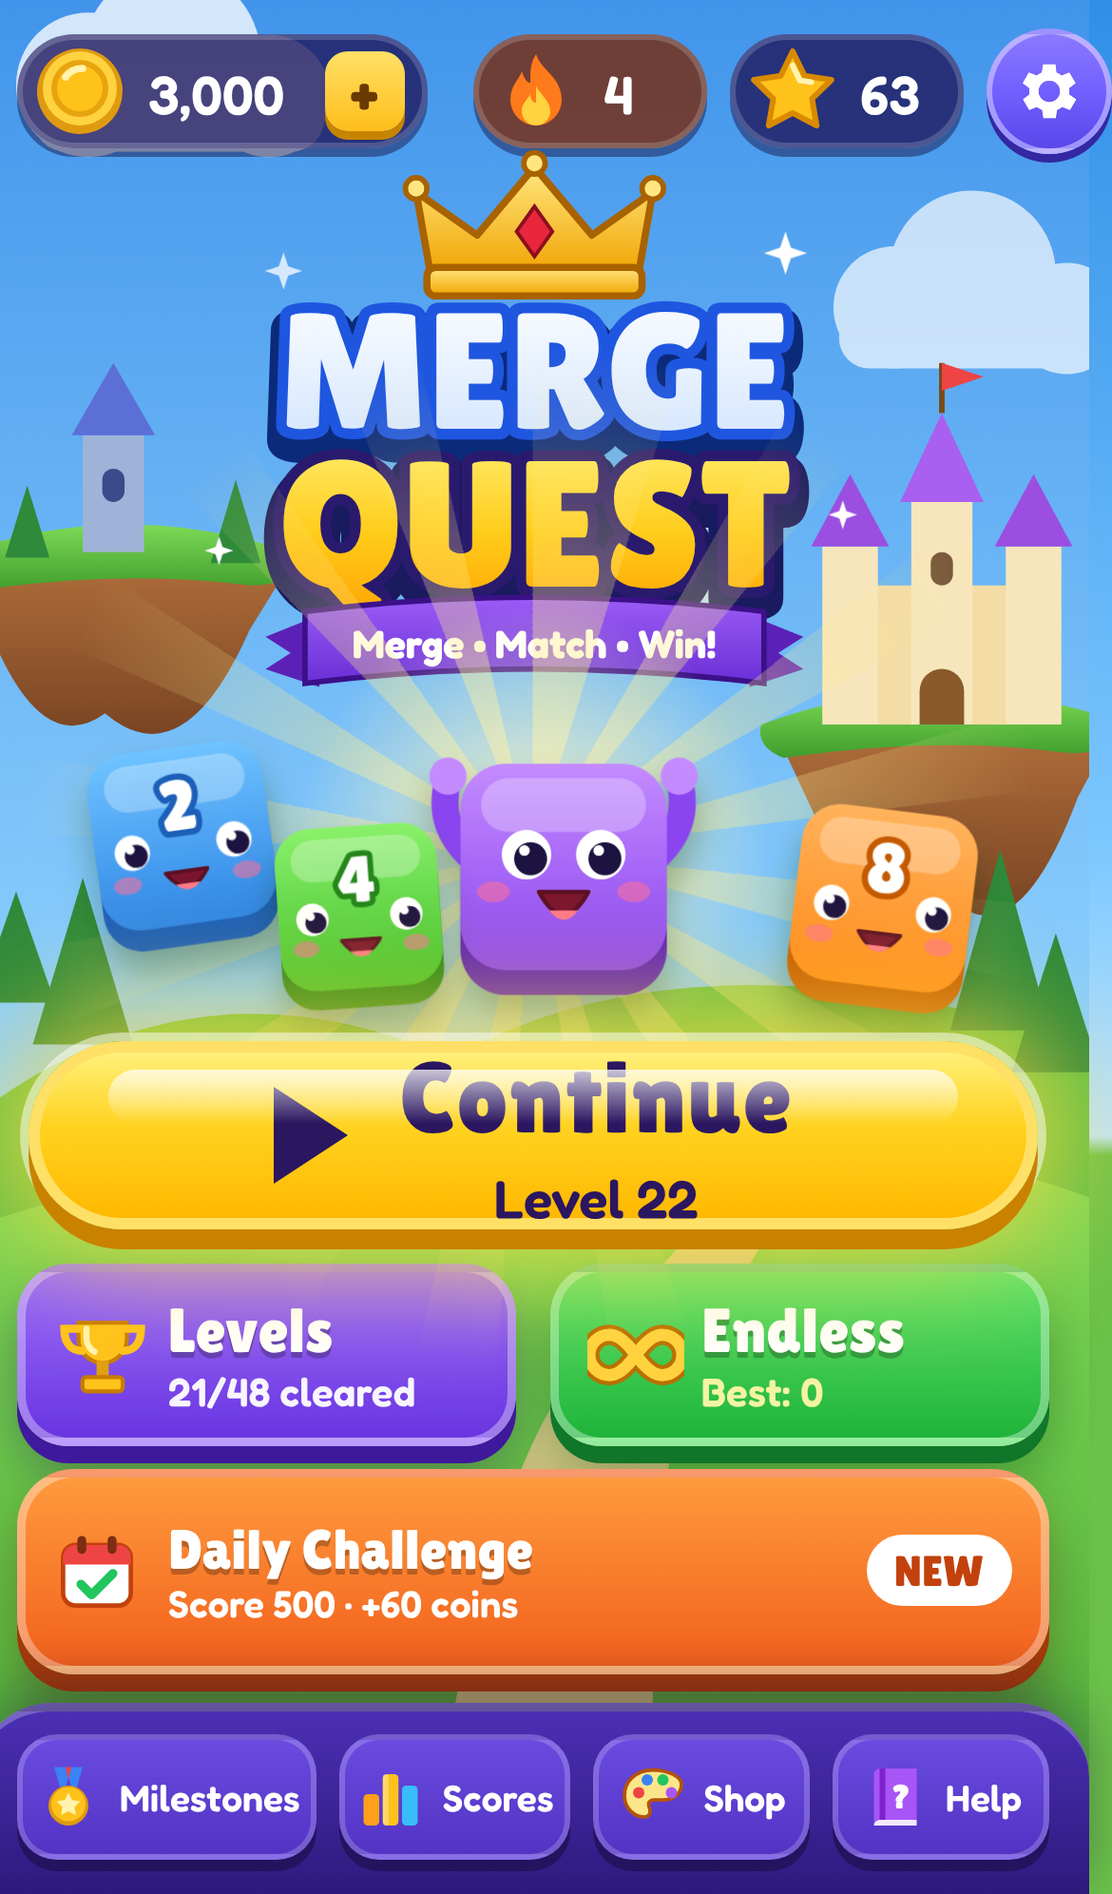
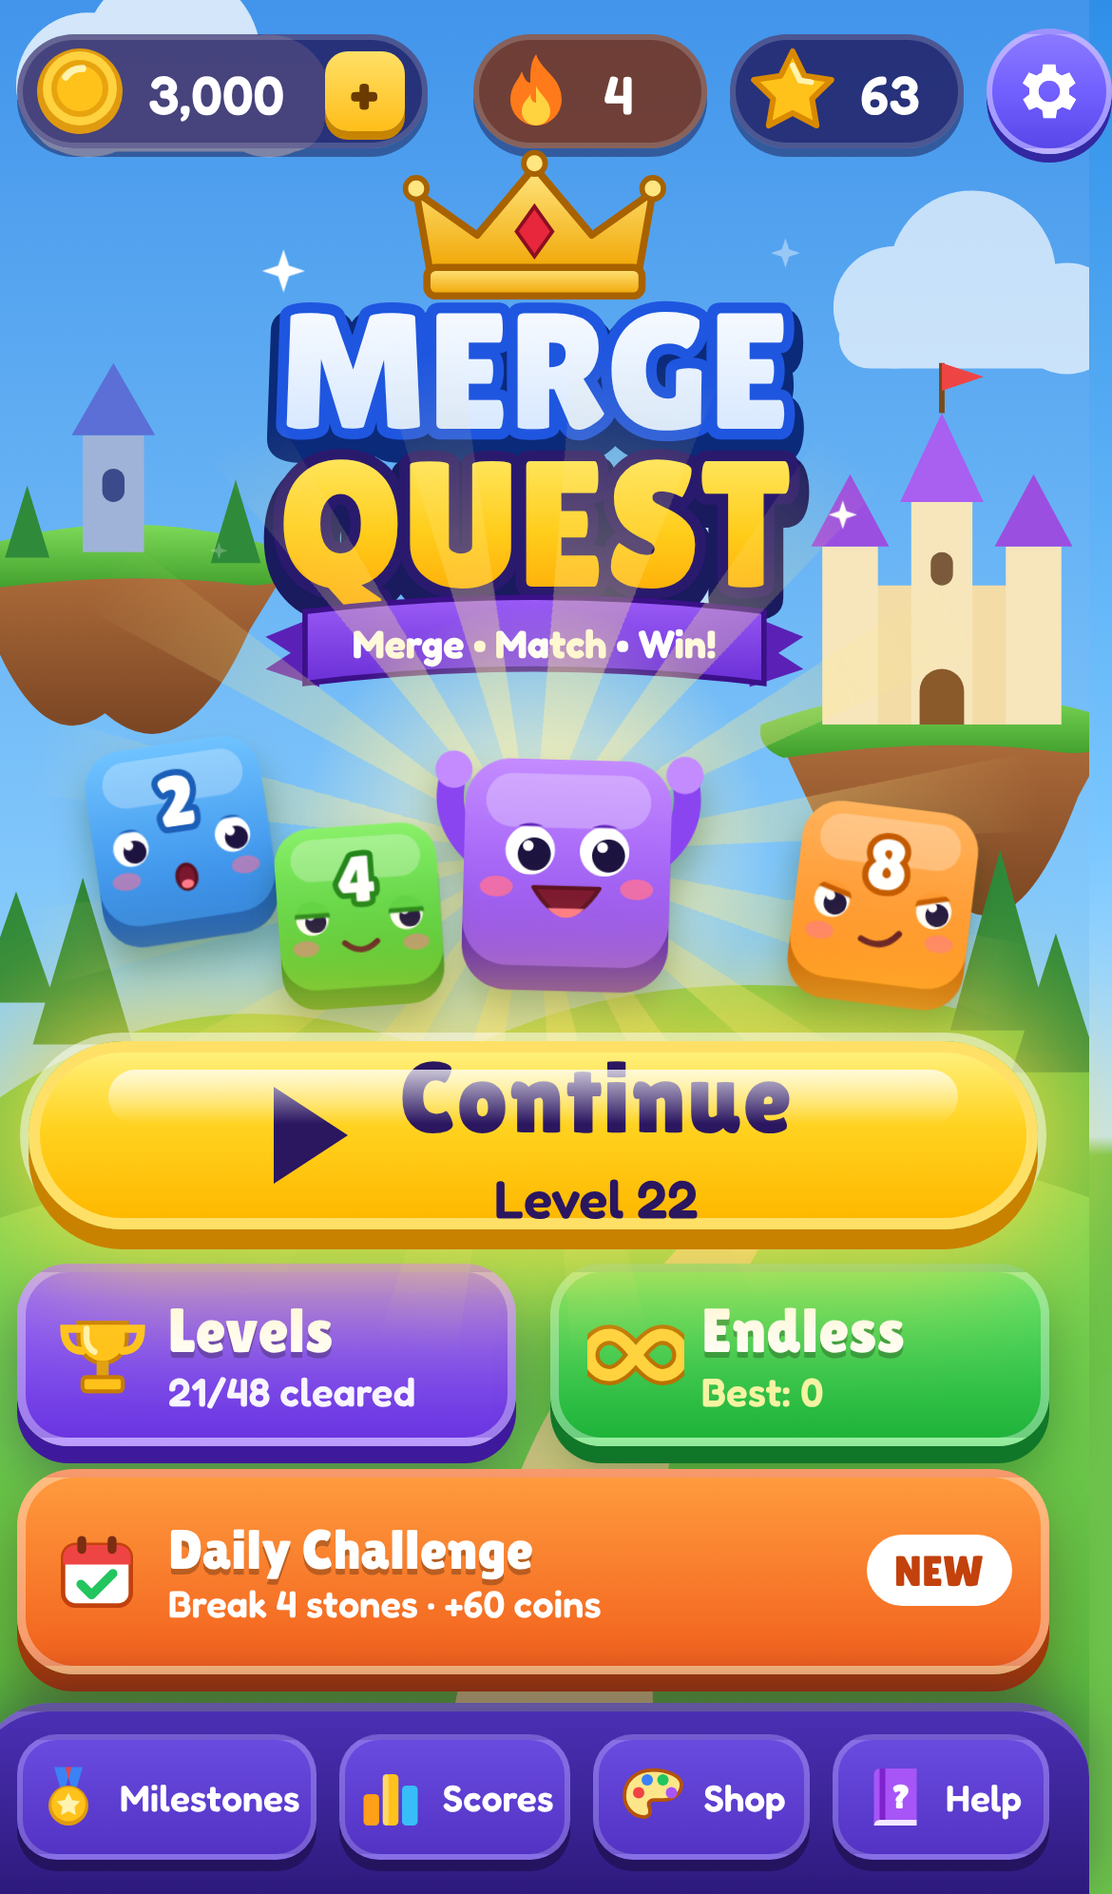
Home buddies get personalities, random blinks and tap reactions
Curious 2, sleepy 4, cheerful purple and determined 8 each have their own
idle bob, blink rhythm and signature move. Eyes use clipped lids, so blinks,
winks, sleepy eyes and the squint are all lid moves.

Claude-Session: https://claude.ai/code/session_0172S5ZqmVRQHNHtJoWFXShx

diff --git a/index.html b/index.html
@@ -353,17 +353,26 @@
     background: radial-gradient(circle, rgba(255, 245, 190, .95), rgba(255, 220, 90, 0) 65%); }
   @keyframes spin { to { transform: translate(-50%, -50%) rotate(360deg); } }
   .buddy { position: absolute; height: auto; filter: drop-shadow(0 8px 6px rgba(20, 60, 10, .35)); }
-  .buddy .bob { animation: bob 2.6s ease-in-out infinite; }
-  .buddy .eyes { animation: blink 5s infinite; transform-box: fill-box; transform-origin: center; }
-  @keyframes bob { 50% { transform: translateY(-6px); } }
-  @keyframes blink { 0%, 46%, 50%, 100% { transform: scaleY(1); } 48% { transform: scaleY(.1); } }
+  .buddy { cursor: pointer; -webkit-tap-highlight-color: transparent; }
+  .buddy svg { overflow: visible; }
+  .buddy .bob, .buddy .act, .buddy .m-yawn, .buddy .aura, .buddy .spark, .buddy .zz { transform-box: fill-box; transform-origin: 50% 100%; }
+  .buddy .m-yawn, .buddy .aura, .buddy .spark, .buddy .zz { transform-origin: center; }
+  .buddy .arm-l { transform-box: fill-box; transform-origin: 100% 100%; animation: armSway 1.8s ease-in-out infinite; }
+  .buddy .arm-r { transform-box: fill-box; transform-origin: 0 100%; animation: armSwayR 1.8s ease-in-out infinite; }
+  .k-curious .bob { animation: bobQuick 1.5s ease-in-out infinite; }
+  .k-sleepy .bob { animation: bobLazy 3.8s ease-in-out infinite; }
+  .k-cheer .bob { animation: bobDance 1.8s ease-in-out infinite; }
+  .k-determined .bob { animation: bobSteady 3s ease-in-out infinite; }
+  @keyframes bobQuick { 50% { transform: translateY(-5px); } }
+  @keyframes bobLazy { 50% { transform: translateY(-3px) scale(1.01, .99); } }
+  @keyframes bobDance { 25% { transform: translateY(-8px) rotate(-3deg); } 50% { transform: none; } 75% { transform: translateY(-8px) rotate(3deg); } }
+  @keyframes bobSteady { 50% { transform: translateY(-3px); } }
+  @keyframes armSway { 50% { transform: rotate(-9deg); } }
+  @keyframes armSwayR { 50% { transform: rotate(9deg); } }
   .b2 { left: 4%; bottom: 26%; width: 24%; transform: rotate(-8deg); }
   .b4 { left: 22%; bottom: 4%; width: 22%; transform: rotate(-4deg); }
-  .b4 .bob { animation-delay: .5s; }
   .bP { left: 39%; bottom: 24%; width: 28%; }
-  .bP .bob { animation-delay: .2s; animation-duration: 2.2s; }
   .b8 { right: 4%; bottom: 10%; width: 24%; transform: rotate(7deg); }
-  .b8 .bob { animation-delay: .9s; }
   .cast .buddy { max-height: 70%; }
   .cta {
     position: relative; display: flex; align-items: center; justify-content: center; gap: 18px;
@@ -435,7 +444,7 @@
     .dock svg { width: 24px; height: 24px; }
   }
   @media (prefers-reduced-motion: reduce) {
-    .burst, .buddy .bob, .cta, .twinkle { animation: none; }
+    .burst, .buddy .bob, .buddy .arm, .cta, .twinkle { animation: none; }
   }
   /* ---------- skins ---------- */
   .skins { display: grid; grid-template-columns: 1fr 1fr; gap: 10px; }
@@ -1990,27 +1999,195 @@
   const homeOpen = () => $('home').classList.contains('show');
 
   // Cute tile characters for the home screen (inline SVG).
-  function buddySvg(v, top, base, side, arms) {
+  // ---------- home-screen buddies ----------
+  // Each buddy has a personality that sets its idle bob, how it blinks and a
+  // signature move (played now and then, or when tapped). Eyes have lids clipped
+  // to the eye, so blinks, sleepy eyes and the determined squint are all lid moves.
+  const mixHex = (a, b, t) => '#' + [1, 3, 5].map(i => Math.round(parseInt(a.substr(i, 2), 16) * (1 - t) + parseInt(b.substr(i, 2), 16) * t).toString(16).padStart(2, '0')).join('');
+  function buddySvg(v, top, base, side, kind) {
     const id = 'g' + v + Math.random().toString(36).slice(2, 6);
-    return `<svg viewBox="-20 -24 140 150"><g class="bob">
+    const arms = kind === 'cheer', ink = '#5a0f22';
+    const eyes = v ? [[21, 56], [79, 56]] : [[32, 44], [68, 44]], r = v ? 10 : 12;
+    const lidFill = mixHex(top, base, (eyes[0][1] + 4) / 100);
+    // lid: body-coloured shape whose bottom edge is the eyelid line (rest position)
+    const lid = (x, y, inner) => {
+      const T = y - 3 * r;
+      if (kind === 'sleepy') return `M${x - r - 2} ${T}H${x + r + 2}V${y - r * .2}H${x - r - 2}Z|M${x - r - 2} ${y - r * .2}H${x + r + 2}`;
+      if (kind === 'determined') {
+        const yi = y - r * .3, yo = y - r * .95, xi = x + inner * (r + 2), xo = x - inner * (r + 2);
+        return `M${xo} ${T}H${xi}V${yi}L${xo} ${yo}Z|M${xo} ${yo}L${xi} ${yi}`;
+      }
+      return `M${x - r - 2} ${T}H${x + r + 2}V${y - r - 1}H${x - r - 2}Z|M${x - r - 2} ${y - r - 1}H${x + r + 2}`;
+    };
+    const eyeSvg = eyes.map(([x, y], i) => {
+      const [shape, line] = lid(x, y, i ? -1 : 1).split('|');
+      return `<g class="eye"><clipPath id="${id}c${i}"><circle cx="${x}" cy="${y}" r="${r + 1}"/></clipPath>
+        <circle cx="${x}" cy="${y}" r="${r}" fill="#fff"/>
+        <g class="pup"><circle cx="${x + 2}" cy="${y + 2}" r="${v ? 6.5 : 8}" fill="#1d1340"/><circle cx="${x - 1}" cy="${y - 2}" r="2.6" fill="#fff"/></g>
+        <g clip-path="url(#${id}c${i})"><g class="lid"><path d="${shape}" fill="${lidFill}"/><path d="${line}" stroke="${side}" stroke-width="3" stroke-linecap="round" fill="none"/></g></g>
+      </g>`;
+    }).join('');
+    const my = v ? 72 : 64;   // mouth line
+    const mouth = {
+      curious: `<ellipse cx="50" cy="${my + 4}" rx="5.5" ry="7" fill="#7a1530" stroke="${ink}" stroke-width="2"/><ellipse cx="50" cy="${my + 8}" rx="3.5" ry="2.5" fill="#ff7a8a"/>`,
+      sleepy: `<path class="m-idle" d="M40 ${my} Q50 ${my + 9} 60 ${my}" stroke="${ink}" stroke-width="3.5" stroke-linecap="round" fill="none"/>
+        <g class="m-yawn" opacity="0"><ellipse cx="50" cy="${my + 5}" rx="9" ry="11" fill="#7a1530" stroke="${ink}" stroke-width="2"/><ellipse cx="50" cy="${my + 11}" rx="6" ry="4" fill="#ff7a8a"/></g>
+        <text class="zz" x="88" y="8" font-family="Lilita One, Fredoka, sans-serif" font-size="22" fill="#fff" stroke="${side}" stroke-width="5" paint-order="stroke" opacity="0">z</text>`,
+      cheer: `<path d="M34 ${my - 2} Q50 ${my + 24} 66 ${my - 2} Z" fill="#7a1530" stroke="${ink}" stroke-width="2" stroke-linejoin="round"/><path d="M41 ${my + 8} Q50 ${my + 17} 59 ${my + 8}" fill="#ff7a8a"/>`,
+      determined: `<path d="M40 ${my + 4} Q53 ${my + 10} 61 ${my - 1}" stroke="${ink}" stroke-width="3.5" stroke-linecap="round" fill="none"/>`,
+    }[kind];
+    const star = (x, y, s) => `<path class="spark" d="M${x} ${y - s}L${x + s * .3} ${y - s * .3}L${x + s} ${y}L${x + s * .3} ${y + s * .3}L${x} ${y + s}L${x - s * .3} ${y + s * .3}L${x - s} ${y}L${x - s * .3} ${y - s * .3}Z" fill="#fff6b0" opacity="0"/>`;
+    return `<svg viewBox="-20 -24 140 150" class="k-${kind}"><g class="bob"><g class="act">
       <defs><linearGradient id="${id}" x1="0" y1="0" x2="0" y2="1"><stop offset="0" stop-color="${top}"/><stop offset="1" stop-color="${base}"/></linearGradient></defs>
-      ${arms ? `<path d="M6 46 Q-12 30 -6 8" stroke="${base}" stroke-width="13" stroke-linecap="round" fill="none"/>
-        <path d="M94 46 Q112 30 106 8" stroke="${base}" stroke-width="13" stroke-linecap="round" fill="none"/>
-        <circle cx="-6" cy="6" r="9" fill="${top}"/><circle cx="106" cy="6" r="9" fill="${top}"/>` : ''}
+      ${kind === 'determined' ? `<circle class="aura" cx="50" cy="56" r="66" fill="${top}" opacity="0"/>` : ''}
+      ${arms ? `<g class="arm arm-l"><path d="M6 46 Q-12 30 -6 8" stroke="${base}" stroke-width="13" stroke-linecap="round" fill="none"/><circle cx="-6" cy="6" r="9" fill="${top}"/></g>
+        <g class="arm arm-r"><path d="M94 46 Q112 30 106 8" stroke="${base}" stroke-width="13" stroke-linecap="round" fill="none"/><circle cx="106" cy="6" r="9" fill="${top}"/></g>` : ''}
       <rect x="0" y="12" width="100" height="100" rx="22" fill="${side}"/>
       <rect x="0" y="0" width="100" height="100" rx="22" fill="url(#${id})"/>
       <rect x="10" y="7" width="80" height="26" rx="13" fill="#fff" opacity=".28"/>
       ${v ? `<text x="50" y="47" text-anchor="middle" font-family="Lilita One, Fredoka, sans-serif" font-size="40"
         fill="#fff" stroke="${side}" stroke-width="7" paint-order="stroke" stroke-linejoin="round">${v}</text>` : ''}
-      <g class="eyes">${(v ? [[21, 56], [79, 56]] : [[32, 44], [68, 44]]).map(([x, y]) => `
-        <circle cx="${x}" cy="${y}" r="${v ? 10 : 12}" fill="#fff"/><circle cx="${x + 2}" cy="${y + 2}" r="${v ? 6.5 : 8}" fill="#1d1340"/>
-        <circle cx="${x - 1}" cy="${y - 2}" r="2.6" fill="#fff"/>`).join('')}
-      </g>
-      ${[[16, v ? 74 : 62], [84, v ? 74 : 62]].map(([x, y]) => `<ellipse cx="${x}" cy="${y}" rx="8" ry="5" fill="#ff6f9a" opacity=".55"/>`).join('')}
-      <path d="M38 ${v ? 70 : 62} Q50 ${v ? 88 : 84} 62 ${v ? 70 : 62} Z" fill="#7a1530" stroke="#5a0f22" stroke-width="2" stroke-linejoin="round"/>
-      <path d="M43 ${v ? 77 : 71} Q50 ${v ? 84 : 80} 57 ${v ? 77 : 71}" fill="#ff7a8a"/>
-    </g></svg>`;
+      ${eyeSvg}
+      ${[[16, v ? 74 : 62], [84, v ? 74 : 62]].map(([x, y]) => `<ellipse cx="${x}" cy="${y}" rx="8" ry="5" fill="#ff6f9a" opacity="${kind === 'cheer' ? .8 : .55}"/>`).join('')}
+      ${mouth}
+      ${arms ? star(-14, -14, 7) + star(112, -12, 6) + star(50, -18, 8) : ''}
+    </g></g></svg>`;
   }
+
+  // Personalities: blink gap (ms), lid travel for a full blink (in eye radii), moves.
+  const BUDDY_KINDS = {
+    curious:    { gap: [2000, 4000], shut: 2.1 },
+    sleepy:     { gap: [4000, 7000], shut: 1.3 },
+    cheer:      { gap: [3000, 5000], shut: 2.1 },
+    determined: { gap: [5000, 8000], shut: 1.6 },
+  };
+  const rnd = (a, b) => a + Math.random() * (b - a);
+  const buddyCtl = {
+    gen: 0, timers: [], list: [], last: null,
+    later(ms, fn) { const g = this.gen; this.timers.push(setTimeout(() => { if (g === this.gen) fn(); }, ms)); },
+    stop() { this.gen++; this.timers.forEach(clearTimeout); this.timers = []; this.list = []; },
+    start() {
+      this.stop();
+      const calm = matchMedia('(prefers-reduced-motion: reduce)').matches;
+      this.list = [...document.querySelectorAll('#home .buddy')].map(el => {
+        const svg = el.querySelector('svg'), kind = svg.getAttribute('class').slice(2);
+        const q = c => [...svg.querySelectorAll(c)];
+        const b = { el, kind, cfg: BUDDY_KINDS[kind], act: svg.querySelector('.act'), lids: q('.lid'), pups: q('.pup'),
+          r: kind === 'cheer' ? 12 : 10, busy: false, calm };
+        svg.querySelector('.bob').style.animationDelay = -rnd(0, 4) + 's';   // idle bobs out of step
+        el.onclick = () => this.tap(b);
+        return b;
+      });
+      for (const b of this.list) this.later(rnd(300, b.cfg.gap[1]), () => this.blinkLoop(b));
+      if (!this.list[0] || this.list[0].calm) return;
+      this.later(rnd(3000, 6000), () => this.moveLoop());
+      const cur = this.list.find(b => b.kind === 'curious');
+      if (cur) this.later(1000, () => this.lookLoop(cur));
+    },
+    // ----- eyes -----
+    blink(b, { eyes = b.lids, ms = 180, hold = 0, depth = 1 } = {}) {
+      const d = b.r * b.cfg.shut * depth, t = ms + hold;
+      eyes.forEach(l => l.animate([{ transform: 'none' }, { transform: `translateY(${d}px)`, offset: ms / 2 / t },
+        { transform: `translateY(${d}px)`, offset: (ms / 2 + hold) / t }, { transform: 'none' }], { duration: t, easing: 'ease-in-out' }));
+      return t;
+    },
+    blinkLoop(b) {
+      if (!b.busy) {
+        if (b.kind === 'curious') { const t = this.blink(b, { ms: 140 }); if (Math.random() < .3) this.later(t + 90, () => this.blink(b, { ms: 140 })); }
+        else if (b.kind === 'sleepy') this.blink(b, { ms: 560, hold: 220 });
+        else if (b.kind === 'cheer') Math.random() < .2 ? this.blink(b, { eyes: [b.lids[Math.random() < .5 ? 0 : 1]], ms: 380, hold: 160 }) : this.blink(b);
+        else this.blink(b, { ms: 110 });
+      }
+      this.later(rnd(...b.cfg.gap), () => this.blinkLoop(b));
+    },
+    look(b, x, y, ms = 1400) {
+      b.pups.forEach(p => p.animate([{ transform: 'none' }, { transform: `translate(${x}px,${y}px)`, offset: .15 },
+        { transform: `translate(${x}px,${y}px)`, offset: .85 }, { transform: 'none' }], { duration: ms, easing: 'ease-in-out' }));
+    },
+    lookLoop(b) {   // the curious one keeps glancing around
+      if (!b.busy) this.look(b, rnd(-3.5, 3.5), rnd(-3.5, 1.5), rnd(700, 1600));
+      this.later(rnd(1400, 3200), () => this.lookLoop(b));
+    },
+    // ----- signature moves -----
+    moveLoop() {
+      const free = this.list.filter(b => !b.busy && b !== this.last);
+      const b = free[Math.floor(Math.random() * free.length)];
+      if (b) this.play(b);
+      this.later(rnd(6000, 15000), () => this.moveLoop());
+    },
+    tap(b) {
+      if (b.calm) { this.blink(b); return; }
+      if (b.busy) { b.act.animate([{ transform: 'none' }, { transform: 'scale(1.08,.9)' }, { transform: 'none' }], { duration: 260 }); return; }
+      this.play(b);
+    },
+    play(b) {
+      b.busy = true; this.last = b;
+      const ms = this[b.kind](b);
+      this.later(ms, () => { b.busy = false; });
+      // a neighbour sometimes glances over
+      const others = this.list.filter(o => o !== b && !o.busy);
+      if (others.length && Math.random() < .6) {
+        const o = others[Math.floor(Math.random() * others.length)];
+        const dir = b.el.getBoundingClientRect().left > o.el.getBoundingClientRect().left ? 3.5 : -3.5;
+        this.later(250, () => this.look(o, dir, -1, 1600));
+      }
+    },
+    curious(b) {   // hop with a head tilt: "what's that?"
+      this.look(b, 0, -3.5, 1300);
+      b.act.animate([{ transform: 'none' }, { transform: 'translateY(-16px) rotate(-6deg)', offset: .3 },
+        { transform: 'translateY(0) rotate(-10deg)', offset: .55 }, { transform: 'rotate(-10deg)', offset: .85 }, { transform: 'none' }],
+        { duration: 1300, easing: 'ease-out' });
+      return 1400;
+    },
+    sleepy(b) {
+      const svg = b.el.querySelector('svg'), idle = svg.querySelector('.m-idle'), yawn = svg.querySelector('.m-yawn'), zz = svg.querySelector('.zz');
+      if (Math.random() < .5) {   // big yawn
+        this.blink(b, { ms: 700, hold: 1100, depth: .85 });
+        b.act.animate([{ transform: 'none' }, { transform: 'scale(.96,1.08)', offset: .35 }, { transform: 'scale(.96,1.08)', offset: .65 },
+          { transform: 'scale(1.06,.92)', offset: .82 }, { transform: 'none' }], { duration: 1900, easing: 'ease-in-out' });
+        idle.animate([{ opacity: 1 }, { opacity: 0, offset: .15 }, { opacity: 0, offset: .8 }, { opacity: 1 }], 1900);
+        yawn.animate([{ opacity: 0, transform: 'scale(.3)' }, { opacity: 1, transform: 'scale(1)', offset: .3 },
+          { opacity: 1, transform: 'scale(1)', offset: .7 }, { opacity: 0, transform: 'scale(.3)' }], { duration: 1900 });
+        return 2000;
+      }
+      // doze off, float a few z's, then startle awake
+      this.blink(b, { ms: 1000, hold: 3000 });
+      b.act.animate([{ transform: 'none' }, { transform: 'rotate(4deg) translateY(2px)', offset: .15 }, { transform: 'rotate(4deg) translateY(2px)', offset: .85 },
+        { transform: 'none' }], { duration: 4000, easing: 'ease-in-out' });
+      [600, 1500, 2400].forEach(t => this.later(t, () => zz.animate([{ opacity: 0, transform: 'translate(0,0) scale(.6)' },
+        { opacity: 1, offset: .3 }, { opacity: 0, transform: 'translate(10px,-22px) scale(1.2)' }], { duration: 1300, easing: 'ease-out' })));
+      this.later(3900, () => {
+        b.act.animate([{ transform: 'none' }, { transform: 'translateY(-12px) scale(.95,1.06)', offset: .35 }, { transform: 'none' }], { duration: 420, easing: 'ease-out' });
+        b.lids.forEach(l => l.animate([{ transform: 'none' }, { transform: `translateY(${-b.r * .5}px)`, offset: .2 }, { transform: `translateY(${-b.r * .5}px)`, offset: .7 }, { transform: 'none' }], 900));
+      });
+      return 5000;
+    },
+    cheer(b) {   // jump with arms pumping and a few sparkles
+      const svg = b.el.querySelector('svg');
+      b.act.animate([{ transform: 'none' }, { transform: 'translateY(-20px)', offset: .3 }, { transform: 'none', offset: .55 },
+        { transform: 'translateY(-9px)', offset: .75 }, { transform: 'none' }], { duration: 1100, easing: 'ease-in-out' });
+      svg.querySelectorAll('.arm').forEach((a, i) => {
+        const s = i ? 1 : -1;
+        a.animate([{ transform: 'none' }, { transform: `rotate(${18 * s}deg)` }, { transform: `rotate(${-10 * s}deg)` },
+          { transform: `rotate(${18 * s}deg)` }, { transform: 'none' }], { duration: 1100, easing: 'ease-in-out' });
+      });
+      svg.querySelectorAll('.spark').forEach((sp, i) => sp.animate([{ opacity: 0, transform: 'scale(.2)' },
+        { opacity: 1, transform: 'scale(1.1) rotate(30deg)', offset: .5 }, { opacity: 0, transform: 'scale(.4) rotate(60deg)' }],
+        { duration: 800, delay: 250 + i * 160 }));
+      if (Math.random() < .4) this.later(1200, () => this.blink(b, { eyes: [b.lids[1]], ms: 380, hold: 200 }));   // and a wink
+      return 1700;
+    },
+    determined(b) {   // narrow the eyes, then a power-up squash and stretch
+      const aura = b.el.querySelector('.aura');
+      this.blink(b, { ms: 500, hold: 900, depth: .32 });
+      b.act.animate([{ transform: 'none' }, { transform: 'translateX(-1.5px)', offset: .1 }, { transform: 'translateX(1.5px)', offset: .2 },
+        { transform: 'translateX(-1.5px)', offset: .3 }, { transform: 'scale(1.08,.9)', offset: .5 }, { transform: 'scale(.94,1.1) translateY(-6px)', offset: .68 },
+        { transform: 'scale(1.02,.98)', offset: .85 }, { transform: 'none' }], { duration: 1500, easing: 'ease-in-out' });
+      aura.animate([{ opacity: 0, transform: 'scale(.8)' }, { opacity: 0, offset: .5 }, { opacity: .45, transform: 'scale(1)', offset: .7 },
+        { opacity: 0, transform: 'scale(1.15)' }], { duration: 1500 });
+      return 1600;
+    },
+  };
 
   const ICONS = {
     cal: `<svg class="mi" viewBox="0 0 48 48"><rect x="5" y="9" width="38" height="34" rx="7" fill="#fff" stroke="#c2410c" stroke-width="2.5"/><path d="M5 16a7 7 0 0 1 7-7h24a7 7 0 0 1 7 7v4H5z" fill="#ef4444"/><rect x="13" y="4" width="5" height="10" rx="2.5" fill="#7c2d12"/><rect x="30" y="4" width="5" height="10" rx="2.5" fill="#7c2d12"/><path d="M15 31l6 6 12-12" stroke="#22c55e" stroke-width="5" fill="none" stroke-linecap="round" stroke-linejoin="round"/></svg>`,
@@ -2128,10 +2305,10 @@
       <div class="logo">${LOGO}</div>
       <div class="cast" aria-hidden="true">
         <div class="burst"></div><div class="glow"></div>
-        <div class="buddy b2">${buddySvg(2, '#6fc3ff', '#2f86e6', '#1c5fb8')}</div>
-        <div class="buddy bP">${buddySvg(0, '#c48bff', '#8b45f0', '#5e22b8', true)}</div>
-        <div class="buddy b4">${buddySvg(4, '#8af06a', '#3fbf2c', '#25861b')}</div>
-        <div class="buddy b8">${buddySvg(8, '#ffb35c', '#ff8a1a', '#c45a00')}</div>
+        <div class="buddy b2">${buddySvg(2, '#6fc3ff', '#2f86e6', '#1c5fb8', 'curious')}</div>
+        <div class="buddy bP">${buddySvg(0, '#c48bff', '#8b45f0', '#5e22b8', 'cheer')}</div>
+        <div class="buddy b4">${buddySvg(4, '#8af06a', '#3fbf2c', '#25861b', 'sleepy')}</div>
+        <div class="buddy b8">${buddySvg(8, '#ffb35c', '#ff8a1a', '#c45a00', 'determined')}</div>
       </div>
       <button class="cta" id="hPlay"><span class="tri"></span><span class="txt"><b>${ctaTop}</b><small>${ctaSub}</small></span></button>
       <div class="modes">
@@ -2147,6 +2324,7 @@
       </div>`;
     $('home').classList.add('show');
     music.play();
+    buddyCtl.start();
     $('hPlay').onclick = () => (cont ? resumeLevel() : next ? startLevel(next) : playEndless());
     $('hMap').onclick = showMap;
     $('hEndless').onclick = playEndless;
@@ -2300,7 +2478,7 @@
     };
     $('closeBtn').onclick = hideOverlay;
   }
-  function hideHome() { $('home').classList.remove('show'); music.stop(); }
+  function hideHome() { $('home').classList.remove('show'); music.stop(); buddyCtl.stop(); }
 
   function resumeLevel() {
     if (mode !== 'level') save();       // keep the Endless run or daily attempt
@@ -3517,7 +3695,7 @@
   window.__mb = {
     fire, swap, newGame, undo, toggleTool, useToolAt, comboCoins, rollValue, startLevel, showMap, playEndless, LEVELS,
     showHome, resumeLevel, showMilestones, startDaily, dailyDef, todayKey, playDaily, showShop, applySkin,
-    setCoins, music, audioPrefs,
+    setCoins, music, audioPrefs, buddyCtl,
     state: () => ({ grid: gridValues(), cur, nxt, nxt2, score, over, busy, coins, tool, sel, snap: !!snap, maxV, infCount, minE, mode, lv, cols, rows, freeUses, inv: { ...inv } }),
   };
 })();

diff --git a/sw.js b/sw.js
@@ -1,5 +1,5 @@
 // Offline support: cache the game shell, serve cache-first, refresh in the background.
-const CACHE = 'merge-quest-v8';
+const CACHE = 'merge-quest-v9';
 const FILES = ['./', './index.html', './fonts/fredoka.woff2', './fonts/lilita-one.woff2', './music/home.mp3', './manifest.webmanifest', './icon-192.png', './icon-512.png', './icon-maskable-512.png', './apple-touch-icon.png'];
 
 self.addEventListener('install', e => {
